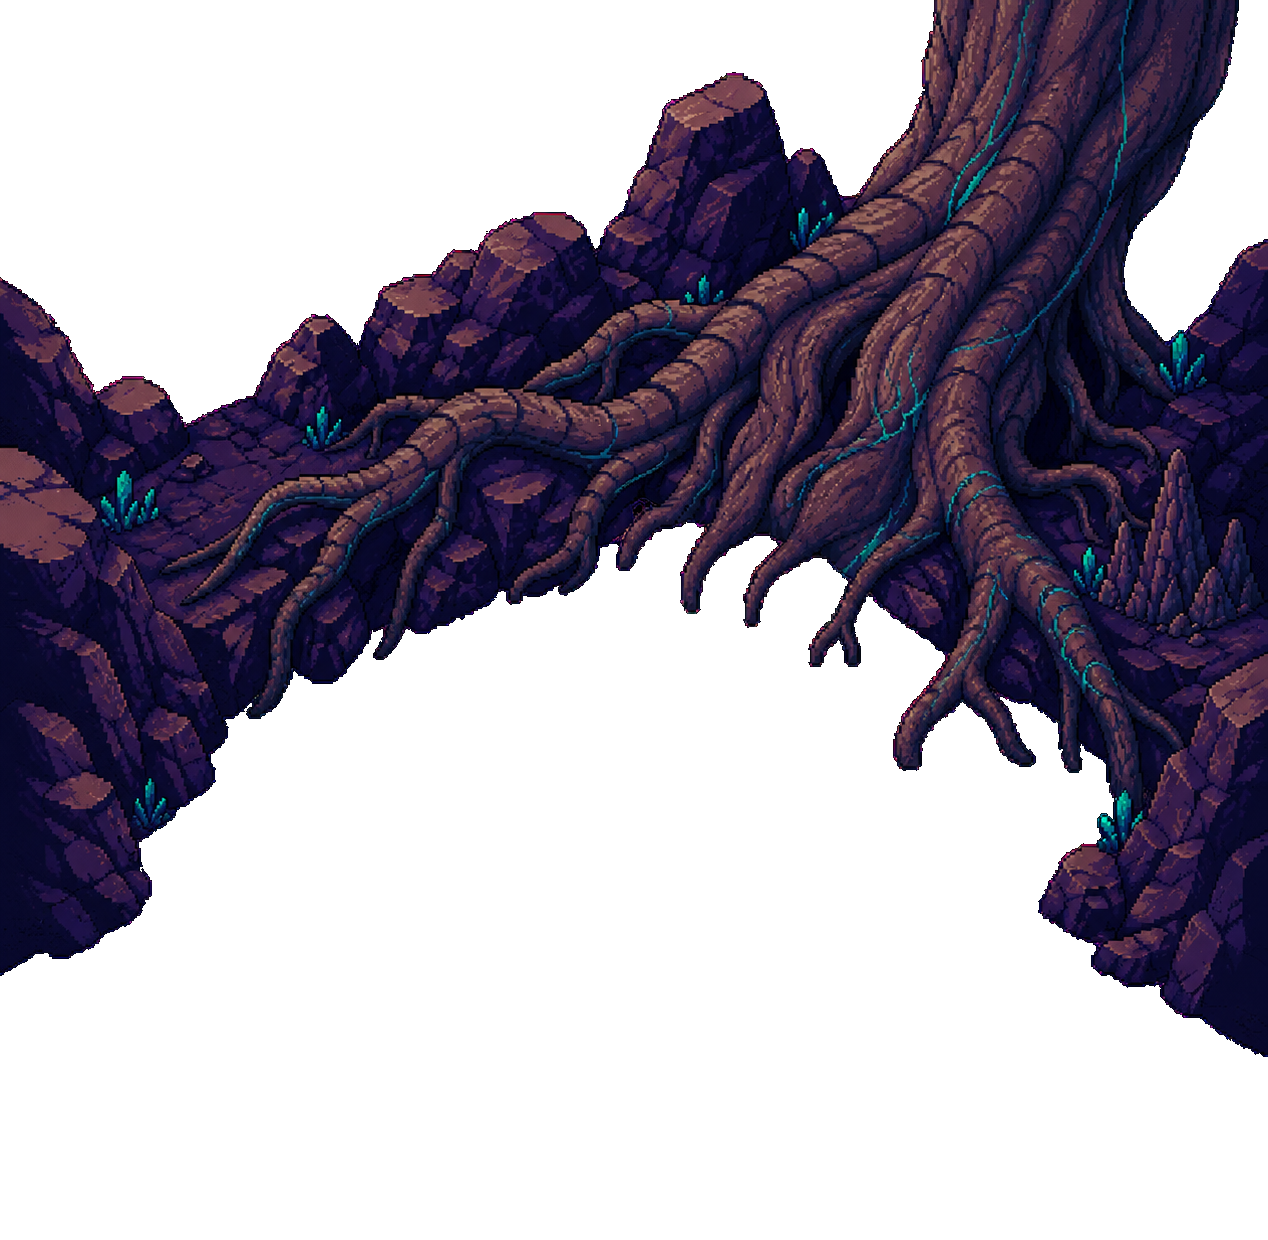
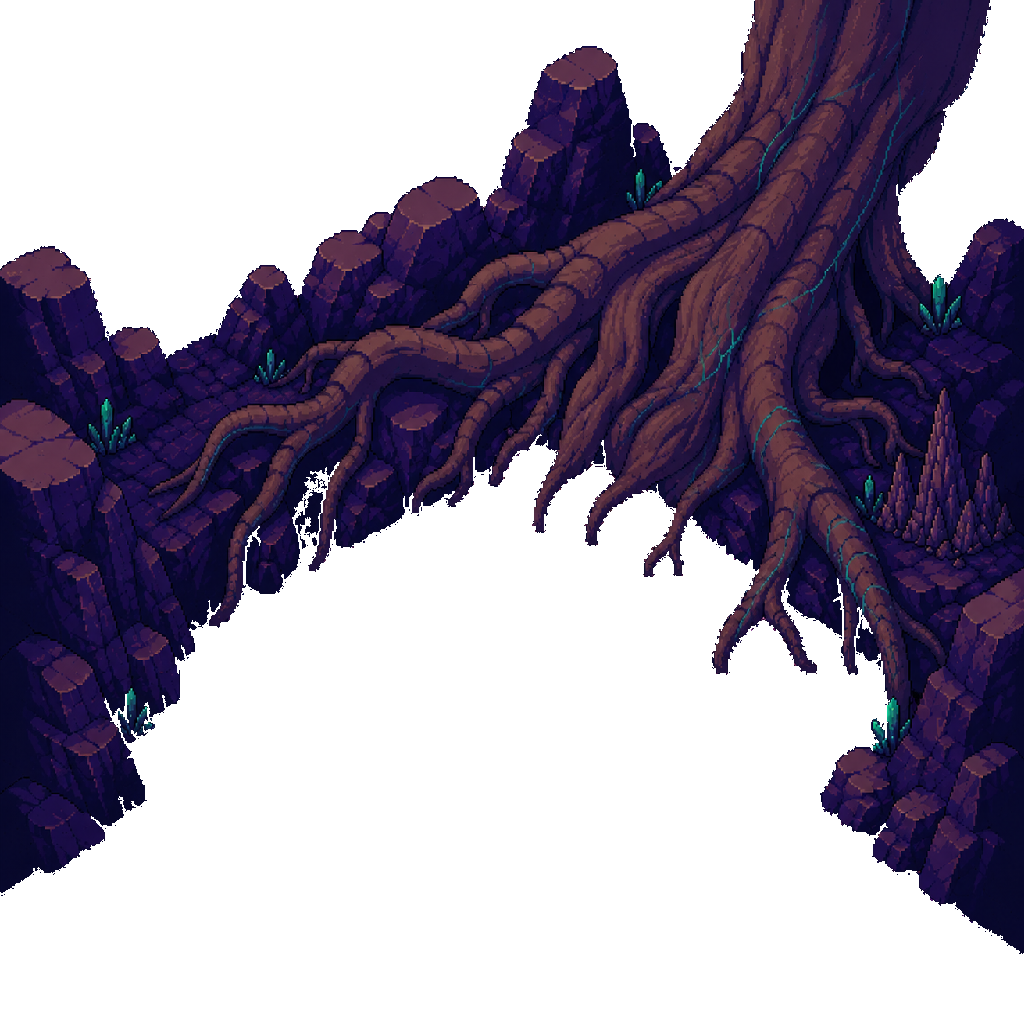
feat(viewport): add responsive world scaling and resize handling

Changed region(s): [[0.0, 0.0, 1.0, 0.9375]]

diff --git a/src/components/Canvas/Canvas.tsx b/src/components/Canvas/Canvas.tsx
@@ -4,7 +4,9 @@ import findTile from "../../game/grid/findTile";
 import { type selectionType } from "../../game/type";
 import type { GameAssets } from "../../assets/assetTypes";
 import type { Tile } from "../../game/grid/tiles.types";
-import drawAllTiles, { drawTileState } from "../../rendering/tiles/drawAllTiles";
+import drawAllTiles, {
+  drawTileState,
+} from "../../rendering/tiles/drawAllTiles";
 import { initialDecorations } from "../../game/decorations/initialDecorations";
 import type { Plant, Species } from "../../game/plants/plants.type";
 import type { Building } from "../../game/buildings/buildings.type";
@@ -19,6 +21,26 @@ import { drawPlants } from "../../rendering/plants/drawPlants";
 import drawBackground from "../../rendering/environment/drawBackground";
 import { drawForeground } from "../../rendering/environment/drawForeground";
 import { drawMidground } from "../../rendering/environment/drawMidground";
+import { WORLD_WIDTH, WORLD_HEIGHT } from "../../game/world/world.constant";
+
+export type Viewport = {
+  scale: number;
+  offsetX: number;
+  offsetY: number;
+};
+
+const getViewport = (canvasWidth: number, canvasHeight: number): Viewport => {
+  const scale = Math.min(
+    canvasWidth / WORLD_WIDTH,
+    canvasHeight / WORLD_HEIGHT,
+  );
+
+  return {
+    scale,
+    offsetX: (canvasWidth - WORLD_WIDTH * scale) / 2,
+    offsetY: (canvasHeight - WORLD_HEIGHT * scale) / 2,
+  };
+};
 
 interface Canvas {
   handleTileSelection: (tile: Tile) => void;
@@ -34,7 +56,6 @@ interface Canvas {
   decorations: Decoration[];
   selectedSpecie: Species | null;
 }
-
 
 export default function Canvas({
   handleTileSelection,
@@ -85,12 +106,33 @@ export default function Canvas({
 
     let animationFrameId: number;
 
+    const viewport = getViewport(canvas.width, canvas.height);
+
+    ctx.translate(viewport.offsetX, viewport.offsetY);
+    ctx.scale(viewport.scale, viewport.scale);
+
+    console.log({
+  canvasWidth: canvas.width,
+  canvasHeight: canvas.height,
+  viewport,
+});
+
+
+const rect = canvas.getBoundingClientRect();
+
+console.log( {
+  internalWidth: canvas.width,
+  internalHeight: canvas.height,
+  cssWidth: rect.width,
+  cssHeight: rect.height,
+});
     const render = () => {
+      ctx.save();
       ctx.clearRect(0, 0, canvas.width, canvas.height);
 
-      drawBackground(ctx, assetsRef.current)
+      drawBackground(ctx, assetsRef.current);
       drawAllTiles(ctx, tilesRef.current, assets);
-      drawMidground(ctx, assetsRef.current)
+      drawMidground(ctx, assetsRef.current);
 
       drawTileState(ctx, tilesRef.current);
       drawDecorations(ctx, tilesRef.current, assetsRef.current);
@@ -101,7 +143,9 @@ export default function Canvas({
         tilesRef.current,
         assetsRef.current,
       );
-      drawForeground(ctx, assetsRef.current)
+      drawForeground(ctx, assetsRef.current);
+
+      ctx.restore();
 
       animationFrameId = requestAnimationFrame(render);
     };
@@ -143,10 +187,7 @@ export default function Canvas({
         initialDecorations,
       );
 
-
       handleTileSelection(selectedTile);
-
-
 
       if (clickedObject) {
         setSelectionType(clickedObject.type);
@@ -161,18 +202,10 @@ export default function Canvas({
         return;
       }
 
-      const plant = findPlantOnTile(selectedTileId, plants)
+      const plant = findPlantOnTile(selectedTileId, plants);
 
-      if(!plant) return 
-        console.log(
-            getAdjacentPlants(
-              plant,
-              plants,
-              tiles,
-            ),
-          );
-
-
+      if (!plant) return;
+      console.log(getAdjacentPlants(plant, plants, tiles));
     };
 
     const handleMouseMove = (event: MouseEvent) => {
@@ -191,14 +224,26 @@ export default function Canvas({
       );
     };
 
+    const resizeCanvas = () => {
+  canvas.width = window.innerWidth;
+  canvas.height = window.innerHeight;
+};
+
+resizeCanvas();
+
+window.addEventListener("resize", resizeCanvas);
+
+
     canvas.addEventListener("click", handleMouseClick);
     canvas.addEventListener("mousemove", handleMouseMove);
 
     return () => {
       canvas.removeEventListener("click", handleMouseClick);
       canvas.removeEventListener("mousemove", handleMouseMove);
+        window.removeEventListener("resize", resizeCanvas);
+
     };
-  }, [setTiles, handleTileSelection, setSelectionType]);
+  }, [setTiles, handleTileSelection, setSelectionType, window.innerHeight, window.innerWidth]);
 
   return (
     <>

diff --git a/src/rendering/tiles/drawTile.ts b/src/rendering/tiles/drawTile.ts
@@ -1,5 +1,6 @@
-import type { GameAssets } from "../assets/assetTypes";
-import type { Tile } from "../game/grid/tiles.types";
+import type { GameAssets } from "../../assets/assetTypes";
+import type { Tile } from "../../game/grid/tiles.types";
+
 
 const defineTileColors = (tile: Tile) => {
   if (tile.selected) {

diff --git a/src/rendering/plants/drawPlants.ts b/src/rendering/plants/drawPlants.ts
@@ -42,7 +42,7 @@ export const drawPlants = (
     ctx.drawImage(
       image,
       tile.x - 75 / 2,
-      tile.y - HALF_TILE_HEIGHT - 75 / 2,
+      tile.y - HALF_TILE_HEIGHT - 100 / 2,
       75,
       75,
     );

diff --git a/src/game/decorations/initialDecorations.ts b/src/game/decorations/initialDecorations.ts
@@ -33,7 +33,7 @@ export const initialDecorations: Decoration[] = [
     gridY: 12,
     width: 150,
     height: 120,
-    offsetY: -20,
+    offsetY: -35,
     offsetX: 0,
     footPrint : {width : 2, height : 2}
   }

diff --git a/src/game/world/world.constant.ts b/src/game/world/world.constant.ts
@@ -1,3 +1,6 @@
+// export const WORLD_WIDTH = 1528;
+// export const WORLD_HEIGHT = 732;
+
 export const WORLD_WIDTH = 1600;
 export const WORLD_HEIGHT = 900;
 

diff --git a/src/rendering/environment/drawMidground.ts b/src/rendering/environment/drawMidground.ts
@@ -12,7 +12,7 @@ export const drawMidground = (
   ctx.drawImage(
     image,
     0,
-    -165,
+    -205,
     WORLD_WIDTH,
     WORLD_HEIGHT,
   );

diff --git a/src/rendering/environment/drawForeground.ts b/src/rendering/environment/drawForeground.ts
@@ -12,7 +12,7 @@ export  const drawForeground = (
   ctx.drawImage(
     image,
     0,
-    -125,
+    -75,
    WORLD_WIDTH,
    WORLD_HEIGHT
   );
